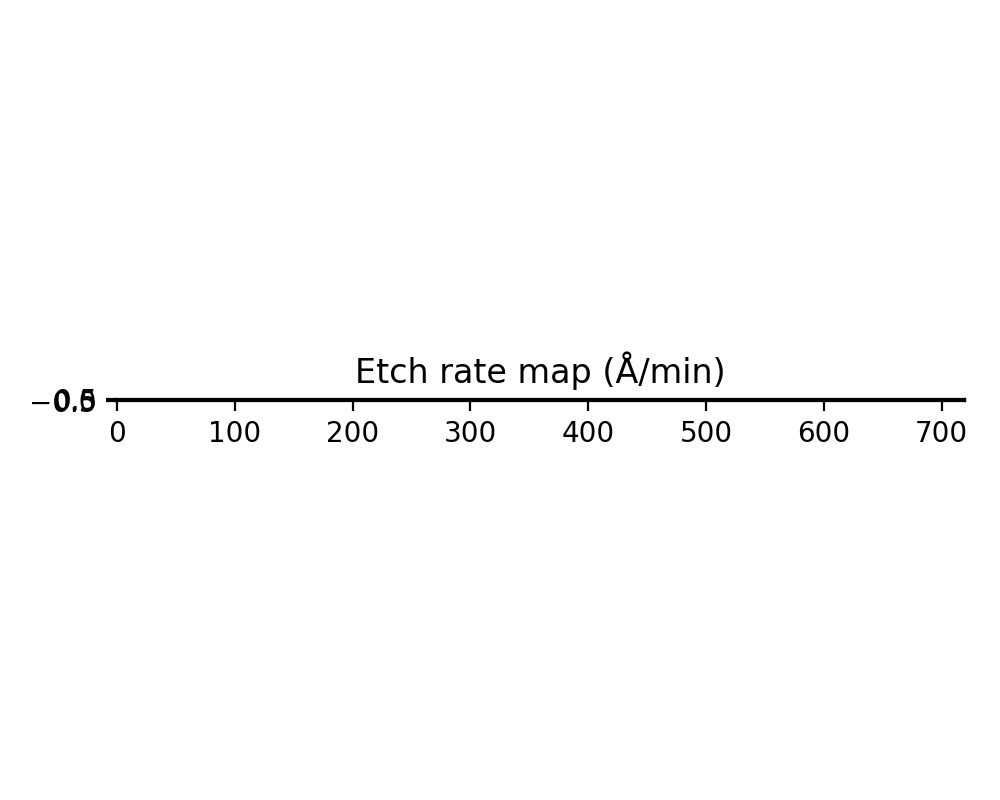
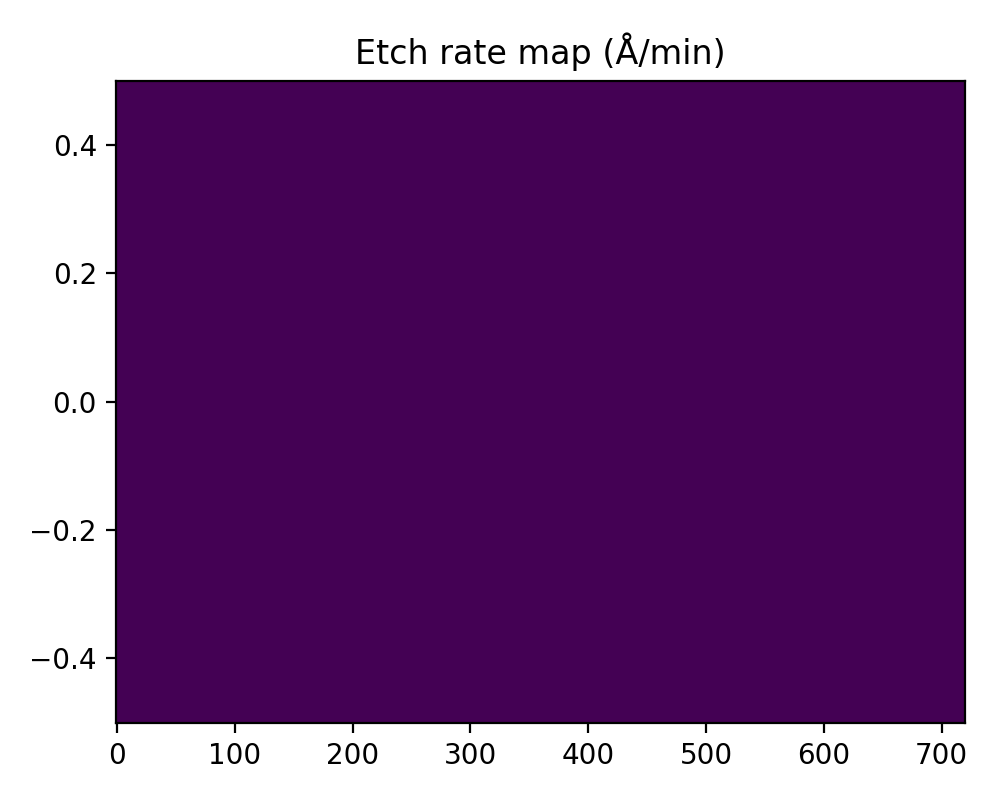
Optimize Stage5 CMP fill for 0.3um trench, update notebook and save stage5 outputs

diff --git a/02_process_stages/stage5_metallization_cmp.py b/02_process_stages/stage5_metallization_cmp.py
@@ -36,8 +36,9 @@ def local_density(binmap: np.ndarray, radius_px: int = 25) -> np.ndarray:
     """Compute local pattern density via box filter."""
     k = 2*radius_px+1
     p = np.pad(binmap.astype(np.float32), radius_px, mode="edge")
-    # integral image for fast box sum
-    ii = p.cumsum(0).cumsum(1)
+    # integral image (SAT) with zero border: ii[i,j] = sum(p[0:i, 0:j])
+    ii = np.zeros((p.shape[0]+1, p.shape[1]+1), dtype=np.float32)
+    ii[1:, 1:] = p.cumsum(0).cumsum(1)
     def boxsum(y0,x0,y1,x1):
         return ii[y1,x1]-ii[y0,x1]-ii[y1,x0]+ii[y0,x0]
     H,W = binmap.shape
@@ -148,7 +149,7 @@ def main():
 
     def imsave(arr, name, title):
         plt.figure(figsize=(5,4))
-        plt.imshow(arr, origin="lower")
+        plt.imshow(arr, origin="lower", aspect="auto")
         plt.title(title)
         plt.tight_layout()
         plt.savefig(os.path.join(args.outdir, name), dpi=200)

diff --git a/02_process_stages/stage2_etch.py b/02_process_stages/stage2_etch.py
@@ -228,7 +228,7 @@ def main():
 
     def imsave(arr, name, title):
         plt.figure(figsize=(5,4))
-        plt.imshow(arr, origin="lower")
+        plt.imshow(arr, origin="lower", aspect="auto")
         plt.title(title)
         plt.tight_layout()
         plt.savefig(os.path.join(args.outdir, name), dpi=200)

diff --git a/02_process_stages/stage3_cvd.py b/02_process_stages/stage3_cvd.py
@@ -182,7 +182,7 @@ def main():
 
     def imsave(arr, name, title):
         plt.figure(figsize=(5,4))
-        plt.imshow(arr, origin="lower")
+        plt.imshow(arr, origin="lower", aspect="auto")
         plt.title(title)
         plt.tight_layout()
         plt.savefig(os.path.join(args.outdir, name), dpi=200)
